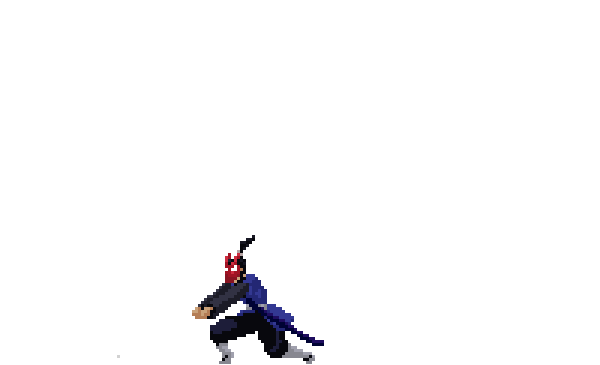
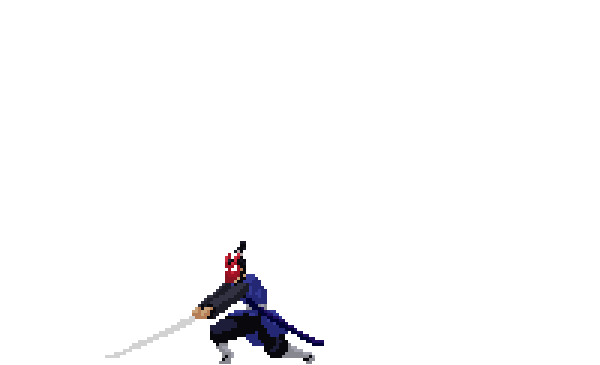
Fixed 0-1 numbering

diff --git a/cannvas.html b/cannvas.html
@@ -353,10 +353,10 @@ body{
 <!-- //Player -->
 <img id="p1Idle" class="p1Idle" src="./characters/samurai/idle/idle.png">
 
+<img id="p1Attack0" class="p1Attack"src="./characters/samurai/attack/attack_0.png">
 <img id="p1Attack1" class="p1Attack"src="./characters/samurai/attack/attack_1.png">
 <img id="p1Attack2" class="p1Attack"src="./characters/samurai/attack/attack_2.png">
 <img id="p1Attack3" class="p1Attack"src="./characters/samurai/attack/attack_3.png">
-<img id="p1Attack4" class="p1Attack"src="./characters/samurai/attack/attack_4.png">
 
 <img id="p1Run0" class="p1Run" src="./characters/samurai/run/run_0.png">
 <img id="p1Run1" class="p1Run" src="./characters/samurai/run/run_1.png">
@@ -383,10 +383,10 @@ body{
 <!-- //Player2 -->
 <img id="p2Idle" class="p2Idle" src="./characters/knight/idle/idle.png">
 
+<img id="p2Attack0" class="p2Attack"src="./characters/knight/attack/attack_0.png">
 <img id="p2Attack1" class="p2Attack"src="./characters/knight/attack/attack_1.png">
 <img id="p2Attack2" class="p2Attack"src="./characters/knight/attack/attack_2.png">
 <img id="p2Attack3" class="p2Attack"src="./characters/knight/attack/attack_3.png">
-<img id="p2Attack4" class="p2Attack"src="./characters/knight/attack/attack_4.png">
 <!-- <img id="p2Attack5" class="p2Attack"src="./characters/knight/attack/attack_5.png"> -->
 <!-- <img id="p2Attack6" class="p2Attack"src="./characters/knight/attack/attack_6.png"> -->
 
@@ -415,10 +415,10 @@ body{
 <!-- //Enemy -->
 <img id="e1Idle" class="e1Idle" src="./characters/kenji/idle/idle.png">
 
+<img id="e1Attack0" class="e1Attack"src="./characters/kenji/attack/attack_0.png">
 <img id="e1Attack1" class="e1Attack"src="./characters/kenji/attack/attack_1.png">
 <img id="e1Attack2" class="e1Attack"src="./characters/kenji/attack/attack_2.png">
 <img id="e1Attack3" class="e1Attack"src="./characters/kenji/attack/attack_3.png">
-<img id="e1Attack4" class="e1Attack"src="./characters/kenji/attack/attack_4.png">
 
 <img id="e1Run0" class="e1Run" src="./characters/kenji/run/run_0.png">
 <img id="e1Run1" class="e1Run" src="./characters/kenji/run/run_1.png">
@@ -454,8 +454,8 @@ body{
     let x,y;
 
     //Turn this to true to turn on Debugging Visualizer
-    // let debug = false;
-    let debug = true;
+    let debug = false;
+    // let debug = true;
     const globalCooldown = 10000;
     let countdownDuration = 60;
     let winnerDeclared = false;
